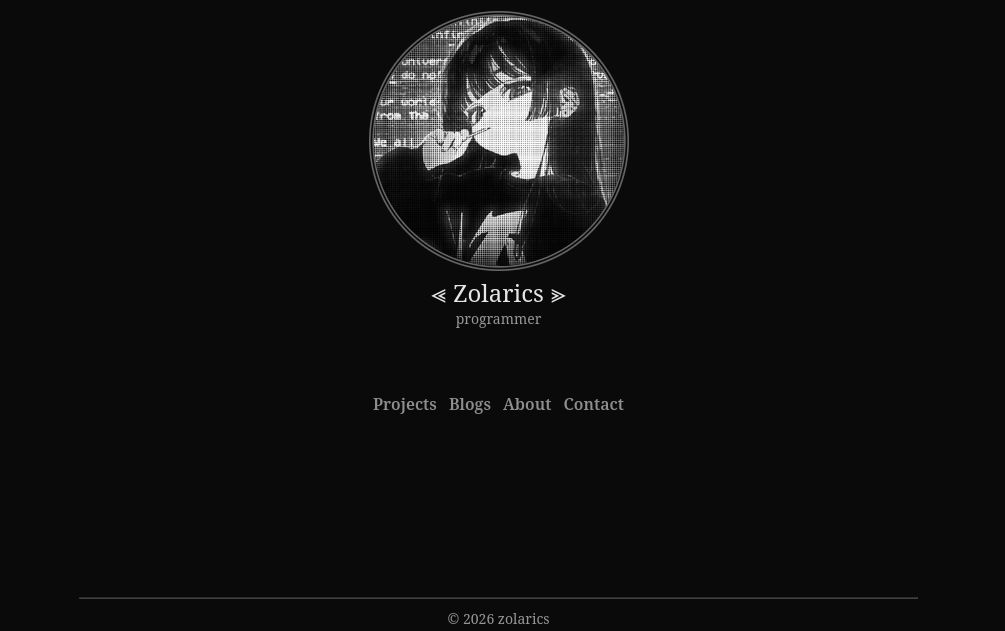
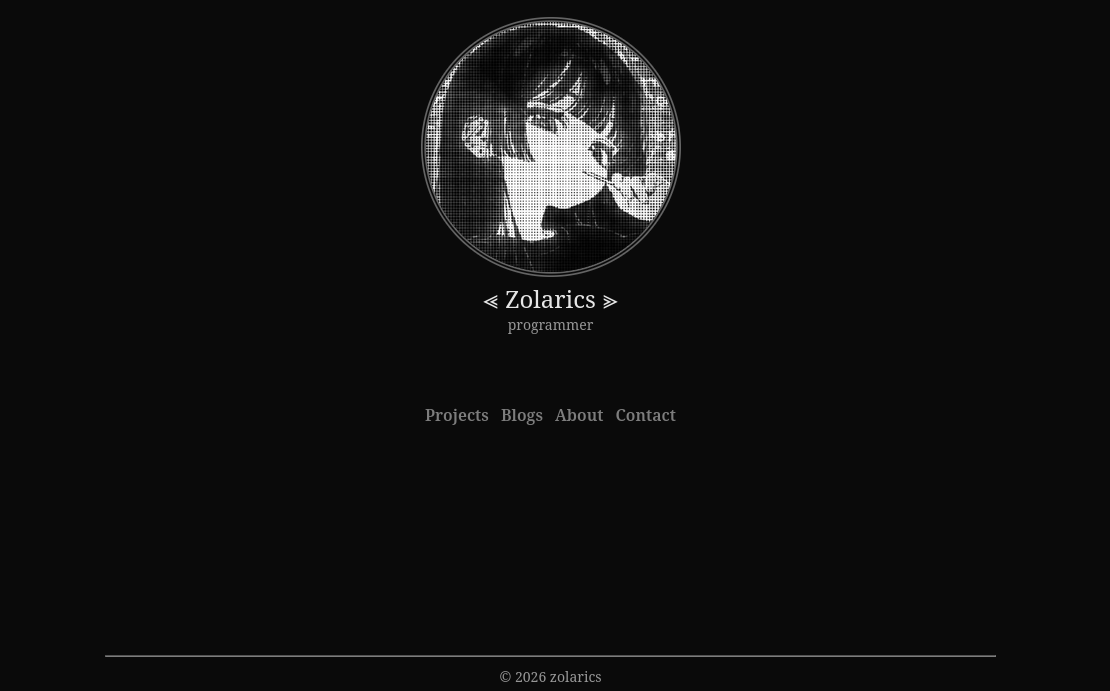
updated 'personal website' project image and pfp image

Changed region(s): [[0.3701, 0.0, 0.6478, 0.5119], [0.0925, 0.9334, 0.8945, 0.9937], [0.3701, 0.5721, 0.6169, 0.6624]]

diff --git a/src/blogs/working-with-a-microcontroller-for-the-first-time/index.html b/src/blogs/working-with-a-microcontroller-for-the-first-time/index.html
@@ -105,7 +105,7 @@ description: 9-1-2026
         </p>
     </div>
     <br><br>
-    I've never been excited by 'Hello, World!' more than I have now. As I said before, I've only ever written code for software, meaning everything I created was bound to computer drives. As basic as this may be, I thought this was 
+    I've never been excited by 'Hello, world!' more than I have now. As I said before, I've only ever written code for software, meaning everything I created was bound to computer drives. As basic as this may be, I thought this was 
     really cool, since it demonstrated to me that there is a whole different field of programming that I could experiment with and learn about. Overall, the journey of trying to figure out how to get a screen to display pixels taught 
     me more than I thought it would. I plan to make some cool stuff with the ESP32 as I learn C, so if you're interested, stick around for the project and blog posts. I appreciate you reading this, especially since it's my first time blogging about a 
     learning experience. Hopefully it was entertaining, but if not, I'd like to hear your feedback. You can contact me through any method in my contact page <a href="/contact">here</a> if you're up for it. Otherwise, take care.
